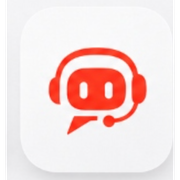
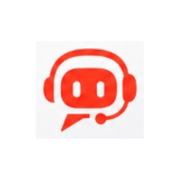
fix: centraliza o icone do atalho do iPhone 100% no meio e remove bordas cinzas internas

diff --git a/apps/web/components/layout/sidebar.tsx b/apps/web/components/layout/sidebar.tsx
@@ -102,10 +102,10 @@ export function Sidebar() {
     >
       {/* Logo oficial Meu Assessor */}
       <div
-        className="px-5 h-[72px] flex items-center border-b"
+        className="px-4 h-[76px] flex items-center border-b"
         style={{ borderColor: "var(--border)" }}
       >
-        <div className="relative w-[150px] h-[45px]">
+        <div className="relative w-[195px] h-[56px]">
           <Image
             src="/logo-header.png"
             alt="Meu Assessor"
